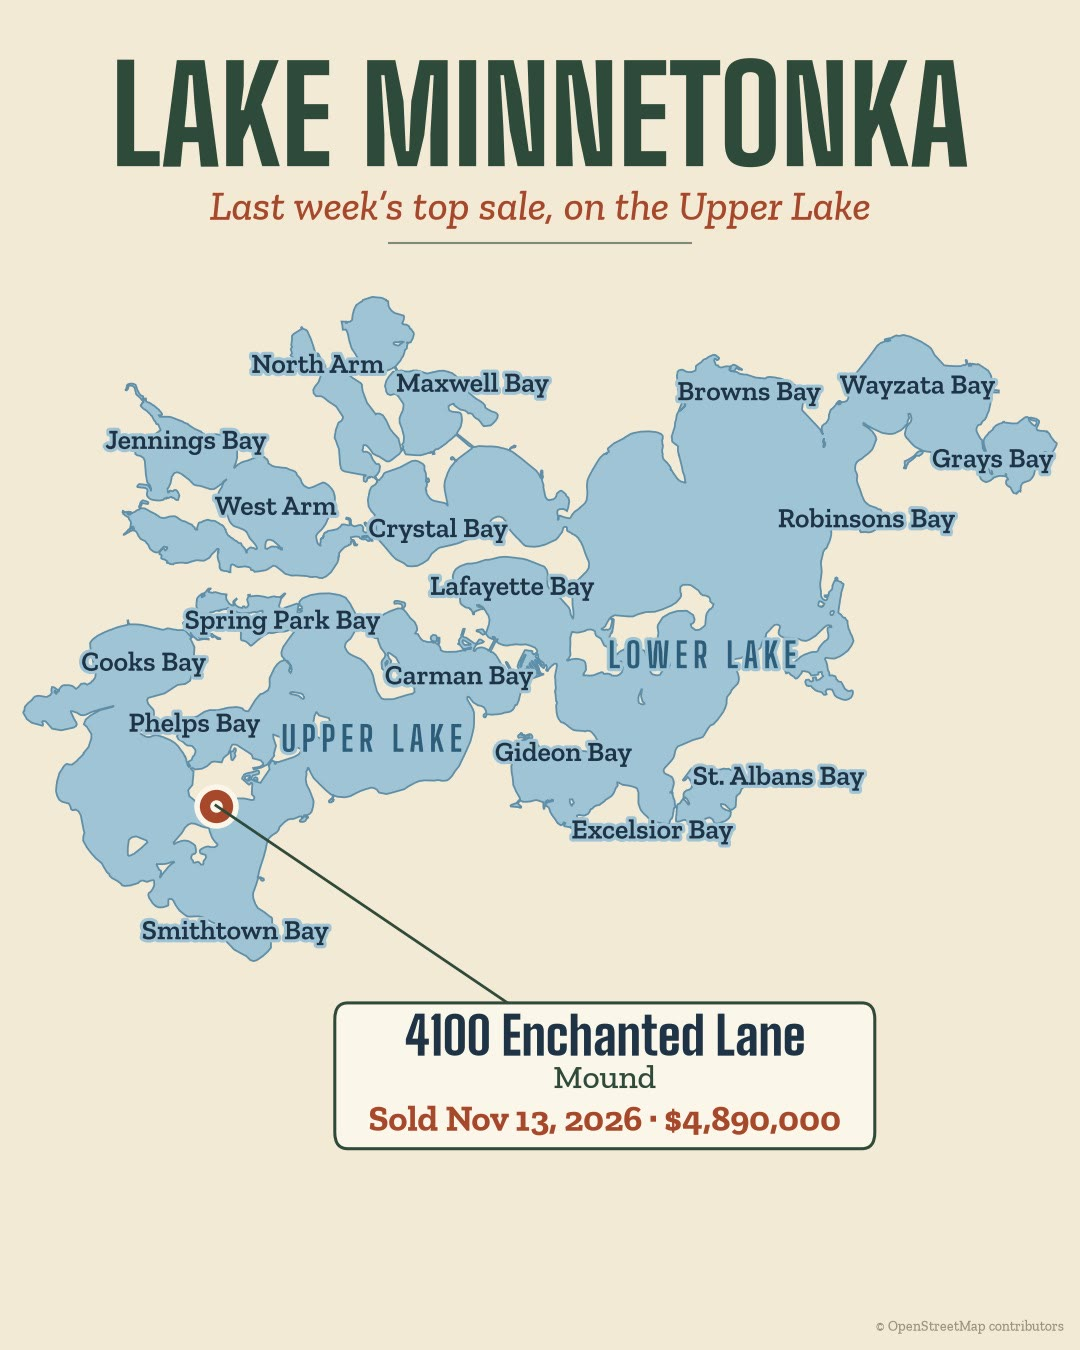
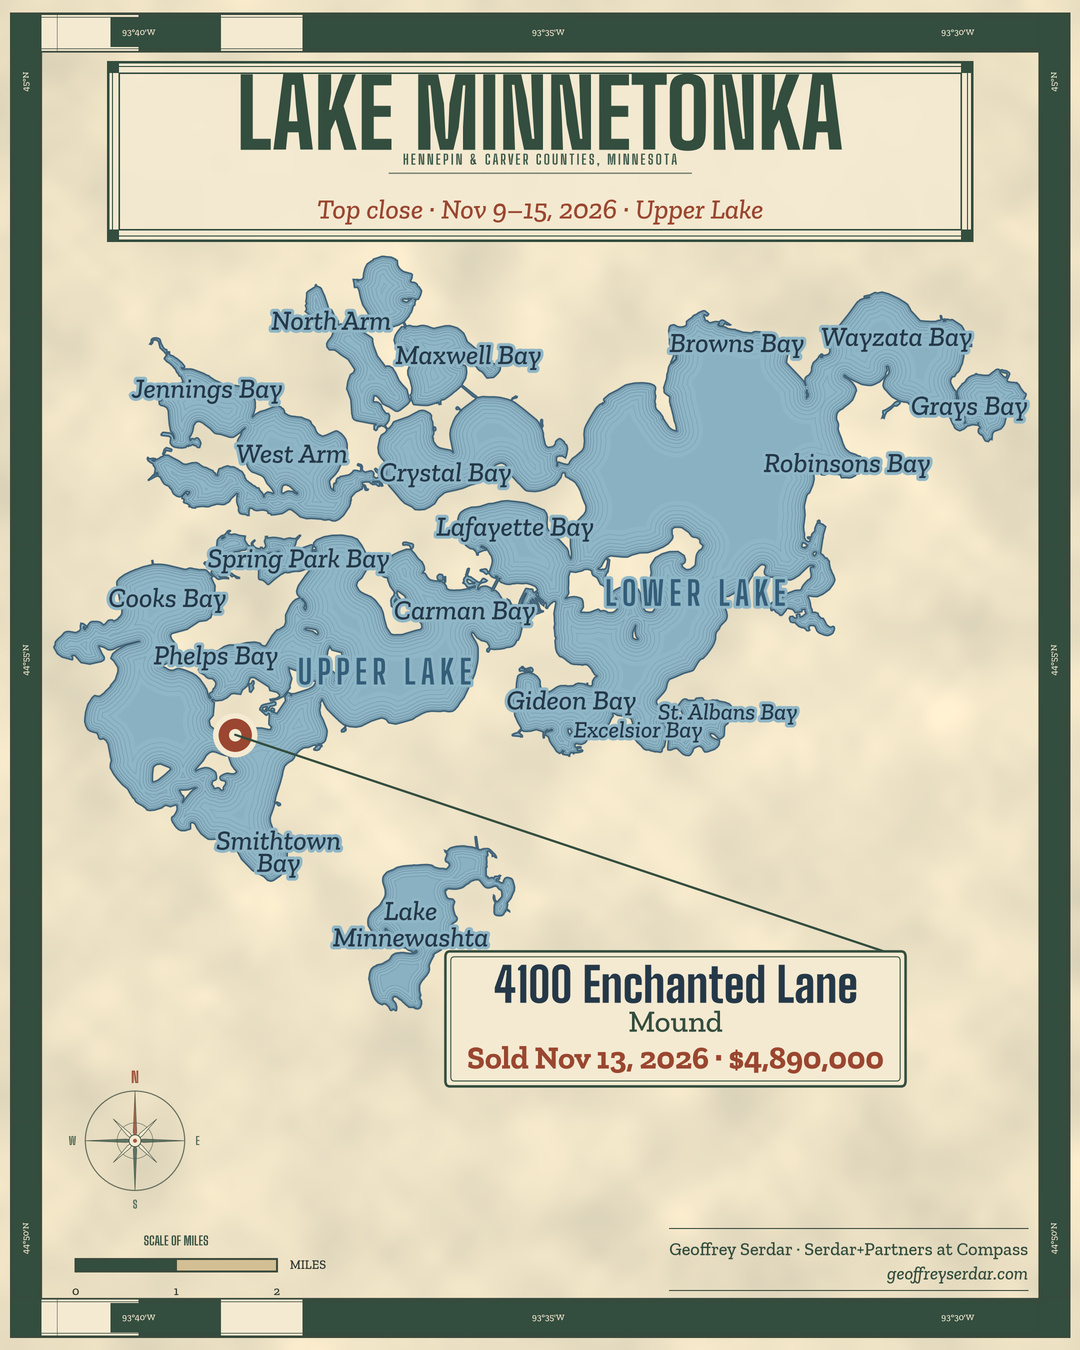
Upper Lake: v4 antique chart map, drop visible OSM caption (credit kept in alt text)

diff --git a/lake-minnetonka/upper-lake/index.html b/lake-minnetonka/upper-lake/index.html
@@ -146,8 +146,8 @@ else{b.disabled=false;err.textContent='That didn\u2019t go through. Please try a
 </script>
 
 <figure class="map-fig">
-<img src="upper-lake-map.jpg" width="1080" height="1350" alt="Map of Lake Minnetonka with the Upper Lake on the west, the Lower Lake on the east, and Enchanted Island marked near Mound. Map data © OpenStreetMap contributors.">
-<figcaption class="map-cap">Map data © OpenStreetMap contributors</figcaption>
+<img src="upper-lake-map.jpg?v=4" width="1080" height="1350" alt="Antique-style chart of Lake Minnetonka and Lake Minnewashta with bay names, the Upper Lake on the west and the Lower Lake on the east, and a pin on Enchanted Island near Mound: 4100 Enchanted Lane, sold Nov 13, 2026 for $4,890,000. Map data © OpenStreetMap contributors.">
+
 </figure>
 
 <h2>What the Upper Lake is</h2>
